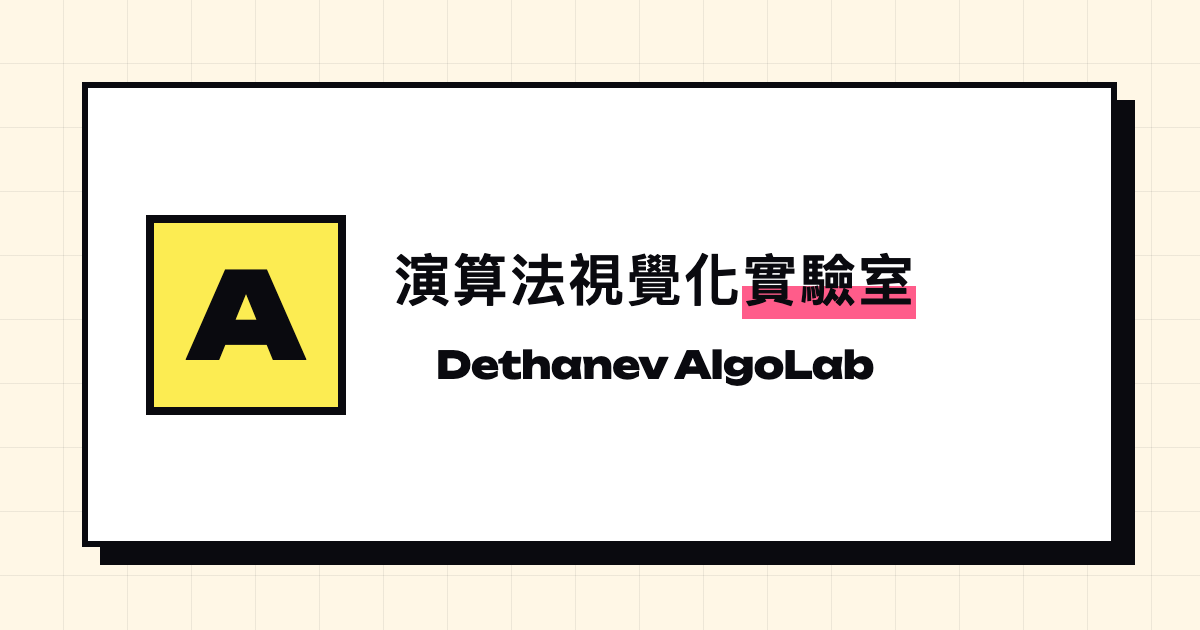
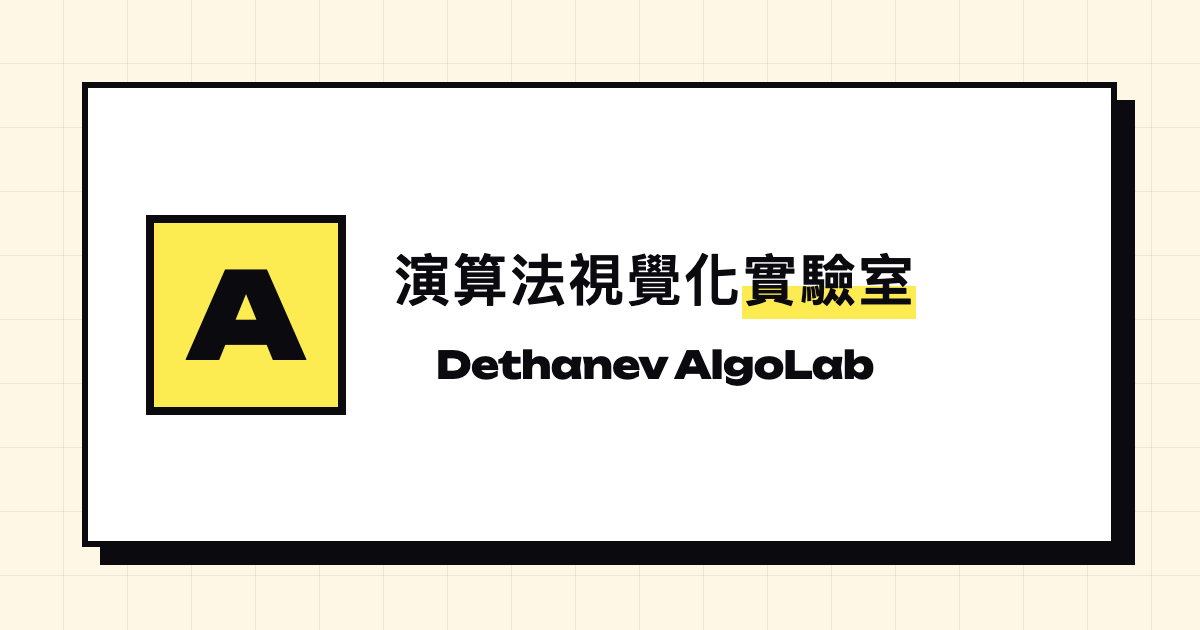
feat: add projects page with live labs and shared project data

Changed region(s): [[0.6167, 0.4524, 0.7708, 0.5127]]

diff --git a/src/data/projects.ts b/src/data/projects.ts
@@ -32,7 +32,7 @@ export const projects: Project[] = [
     name: "AlgoLab",
     description: "演算法視覺化實驗室・貼上 Python 程式碼，透過逐步執行、變數追蹤與資料結構視覺化，幫助理解程式邏輯與演算法原理，並能自由控制執行步驟，讓抽象的演算法變得更直觀。",
     status: "Live",
-    color: "pink",
+    color: "yellow",
     stack: ["Nuxt", "Pyodide", "CodeMirror", "Web Worker"],
     siteUrl: "https://algolab.dethanev.app/",
     image: { src: algolabImage, alt: "演算法視覺化實驗室 Dethanev AlgoLab 網站封面" },
